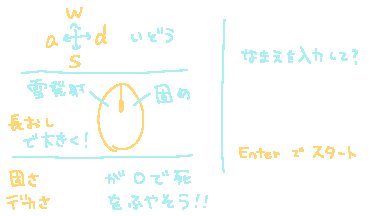
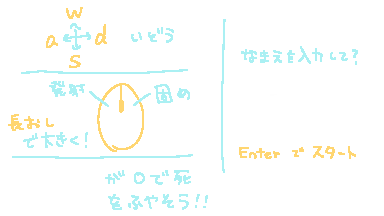
add strength and mass bar

Changed region(s): [[0.0, 0.8889, 0.125, 0.9722], [0.0625, 0.3611, 0.125, 0.4722], [0.0, 0.7778, 0.0938, 0.8611]]

diff --git a/src/scenes/Game.hpp b/src/scenes/Game.hpp
@@ -28,8 +28,10 @@ JSON previnput;
 std::unique_ptr<Texture> backImage;
 std::unique_ptr<Texture> ballImage;
 std::unique_ptr<Texture> prepareImage;
+std::unique_ptr<Texture> katasaDekasaImage;
 
 JSON lastUpdate;
+JSON lastMyUpdate;
 
 double oY = 0, oX = 0, oVY = 0, oVX = 0;
 String id;
@@ -44,6 +46,8 @@ void init() {
 	backImage = std::make_unique<Texture>(U"assets/images/back.png");
 	ballImage = std::make_unique<Texture>(U"assets/images/ball.png");
 	prepareImage = std::make_unique<Texture>(U"assets/images/prepare.png");
+	katasaDekasaImage =
+			std::make_unique<Texture>(U"assets/images/katasa_dekasa.png");
 
 	previnput[U"W"] = false;
 	previnput[U"A"] = false;
@@ -116,36 +120,13 @@ int update() {
 					// printf("time: %lld", std::time(nullptr));
 				}
 			}
-			break;
-		}
-		case DEAD: {
-			break;
-		}
 
-		default: {
-			state = PREPARE;
-			break;
-		}
-	}
-	if(KeyN.down()) {	 // tmp
-		return 1;
-	}
-	return 0;
-}
-void draw() {
-	// (*font)(U"Hello, Siv3D!🚀").drawAt(Scene::Center() / 11, Palette::Green);
-	switch(state) {
-		case PREPARE: {
-			SimpleGUI::TextBox(name, Vec2(-1000, -1000), 100, 12);
-			prepareImage->draw(0, 0);
-			(*fontMedium)(name.text).drawAt(Vec2(300, center.y), textColor1);
-			break;
-		}
-		case PLAYING: {
-			// update origin
+			// update my data
 			if(lastUpdate.hasElement(U"users")) {
 				for(int i = 0; i < lastUpdate[U"users"].size(); i++) {
 					if(lastUpdate[U"users"][i][U"id"].get<String>() == id) {
+						lastMyUpdate = lastUpdate[U"users"][i];
+
 						oVY = lastUpdate[U"users"][i][U"vy"].get<double>();
 						oVX = lastUpdate[U"users"][i][U"vx"].get<double>();
 
@@ -176,6 +157,40 @@ void draw() {
 				}
 			}
 
+			break;
+		}
+		case DEAD: {
+			break;
+		}
+
+		default: {
+			state = PREPARE;
+			break;
+		}
+	}
+	if(KeyN.down()) {	 // tmp
+		return 1;
+	}
+	return 0;
+}
+void draw() {
+	// (*font)(U"Hello, Siv3D!🚀").drawAt(Scene::Center() / 11, Palette::Green);
+	switch(state) {
+		case PREPARE: {
+			SimpleGUI::TextBox(name, Vec2(-1000, -1000), 100, 12);
+			prepareImage->draw(0, 0);
+			(*fontMedium)(name.text).drawAt(Vec2(300, center.y), textColor1);
+
+			katasaDekasaImage->draw(0, resolution.y - 50);
+			Rect(GAME_KATASA_DEKASA_X, GAME_KATASA_Y, 35, GAME_KATASA_DEKASA_HEIGHT)
+					.draw(paintColor1)
+					.drawFrame(0, 1, textColor1);
+			Rect(GAME_KATASA_DEKASA_X, GAME_DEKASA_Y, 17, GAME_KATASA_DEKASA_HEIGHT)
+					.draw(paintColor2)
+					.drawFrame(0, 1, textColor2);
+			break;
+		}
+		case PLAYING: {
 			// draw background
 			int cy = MOD(int(-oY), resolution.y), cx = MOD(int(-oX), resolution.x),
 					odd = MOD(int(-oY) / resolution.y, 2);
@@ -218,8 +233,9 @@ void draw() {
 
 					// draw ball
 					int radius = std::powf(uMass, 1. / 3);
-					Circle(uX - oX, uY - oY, radius + 1).draw(textColor1);
-					Circle(uX - oX, uY - oY, radius).draw(ballColor);
+					Circle(uX - oX, uY - oY, radius)
+							.draw(ballColor)
+							.drawFrame(0, 1, textColor1);
 
 					// draw triangle looking at users cursor
 					if(uLeftClickLength) {
@@ -244,6 +260,25 @@ void draw() {
 				}
 				for(const auto& e : feeds.arrayView()) {
 				}
+			}
+
+			if(lastMyUpdate.hasElement(U"strength")) {
+				katasaDekasaImage->draw(0, resolution.y - 50);
+				const int strength = lastMyUpdate[U"strength"].get<int>();
+				const double mass = lastMyUpdate[U"mass"].get<double>();
+				const int dekasa_w = mass / 1000 + 1;
+				Rect(GAME_KATASA_DEKASA_X, GAME_KATASA_Y, strength,
+						 GAME_KATASA_DEKASA_HEIGHT)
+						.draw(paintColor1)
+						.drawFrame(0, 1, textColor1);
+				(*fontSmall)(strength).draw(GAME_KATASA_DEKASA_X + 2, GAME_KATASA_Y,
+																		textColor1);
+				Rect(GAME_KATASA_DEKASA_X, GAME_DEKASA_Y, dekasa_w,
+						 GAME_KATASA_DEKASA_HEIGHT)
+						.draw(paintColor2)
+						.drawFrame(0, 1, textColor2);
+				(*fontSmall)(int(mass)).draw(GAME_KATASA_DEKASA_X + 2, GAME_DEKASA_Y,
+																		 textColor2);
 			}
 
 			break;

diff --git a/src/Const.hpp b/src/Const.hpp
@@ -33,4 +33,11 @@ const int scaling = 8;
 const ColorF backColor(U"#f0fefd");
 const ColorF textColor1(U"#aaf0f3");
 const ColorF textColor2(U"#ffd671");
+const ColorF paintColor1(U"#d6f7f9");
+const ColorF paintColor2(U"#ffea5a");
 const ColorF ballColor(U"#feffff");
+
+#define GAME_KATASA_Y 175
+#define GAME_KATASA_DEKASA_X 60
+#define GAME_DEKASA_Y 198
+#define GAME_KATASA_DEKASA_HEIGHT 10
